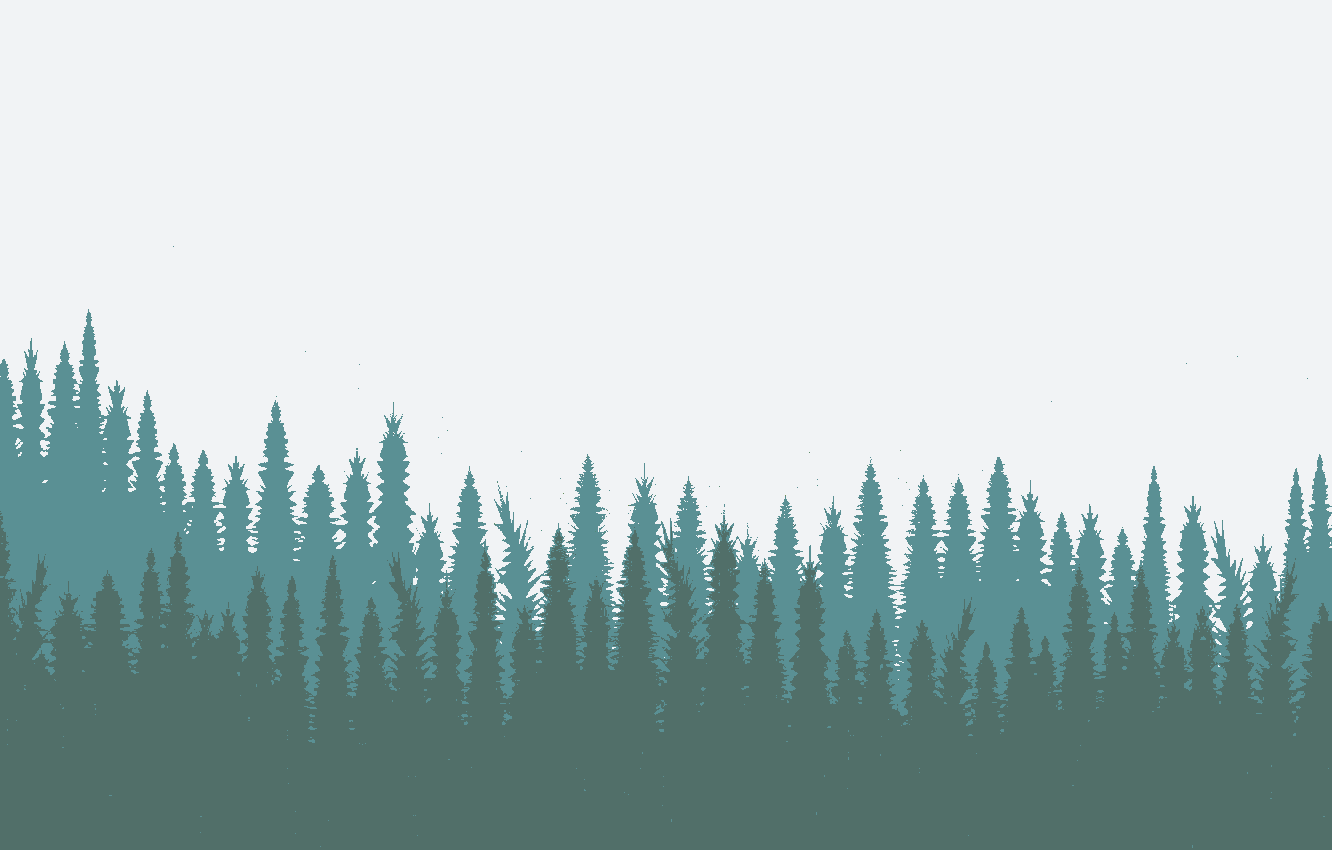
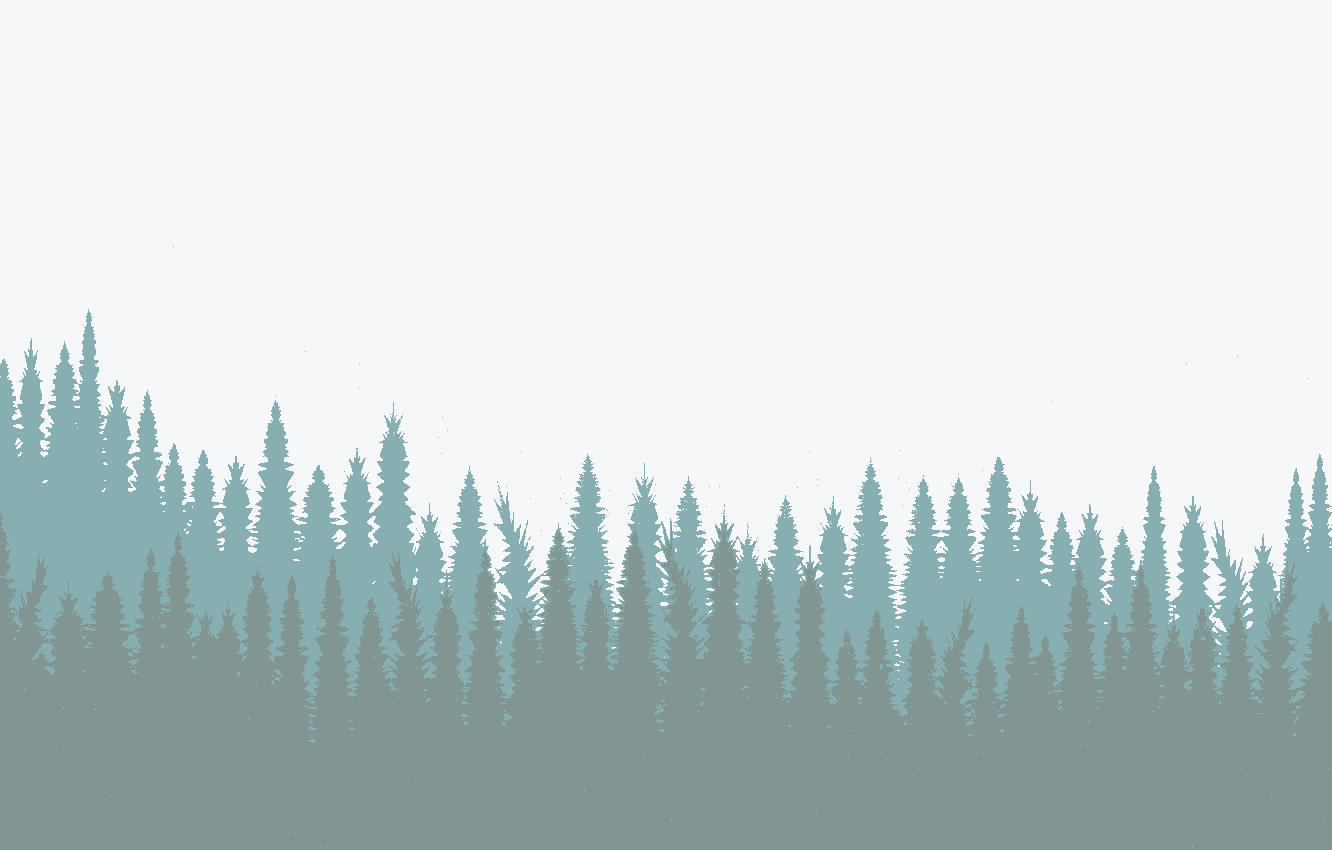
add background to all pages

diff --git a/src/app/css/Home.css b/src/app/css/Home.css
@@ -47,14 +47,6 @@
     list-style-position: inside;
 }
 
-main {
-    background-image: url("../assets/images/background.png");
-    background-position: center;
-    background-size: cover;
-    background-repeat: no-repeat;
-}
-
-
 @media (max-width: 850px) {
     .home-section {
         width: 95vw;

diff --git a/src/app/globals.css b/src/app/globals.css
@@ -1,6 +1,10 @@
 body {
   background-color: #EBEEF0;
   white-space: pre-line;
+  background-image: url("./assets/images/background.png");
+  background-position: center;
+  background-size: cover;
+  background-repeat: no-repeat;
 }
 
 .btn-primary, .btn-primary:scope, 

diff --git a/src/app/css/About.css b/src/app/css/About.css
@@ -7,7 +7,7 @@
 #title-container {
     background-color: white;
     width: 85vw;
-    height: 25vh;
+    height: 75vh;
     margin-left: auto;
     margin-right: auto;
     display: flex;

diff --git a/src/app/css/Shop.css b/src/app/css/Shop.css
@@ -42,6 +42,7 @@
 
 .book-name {
     text-align: center;
+    color: white;
     font-family: Montserrat;
     font-size: 14px;
 }
